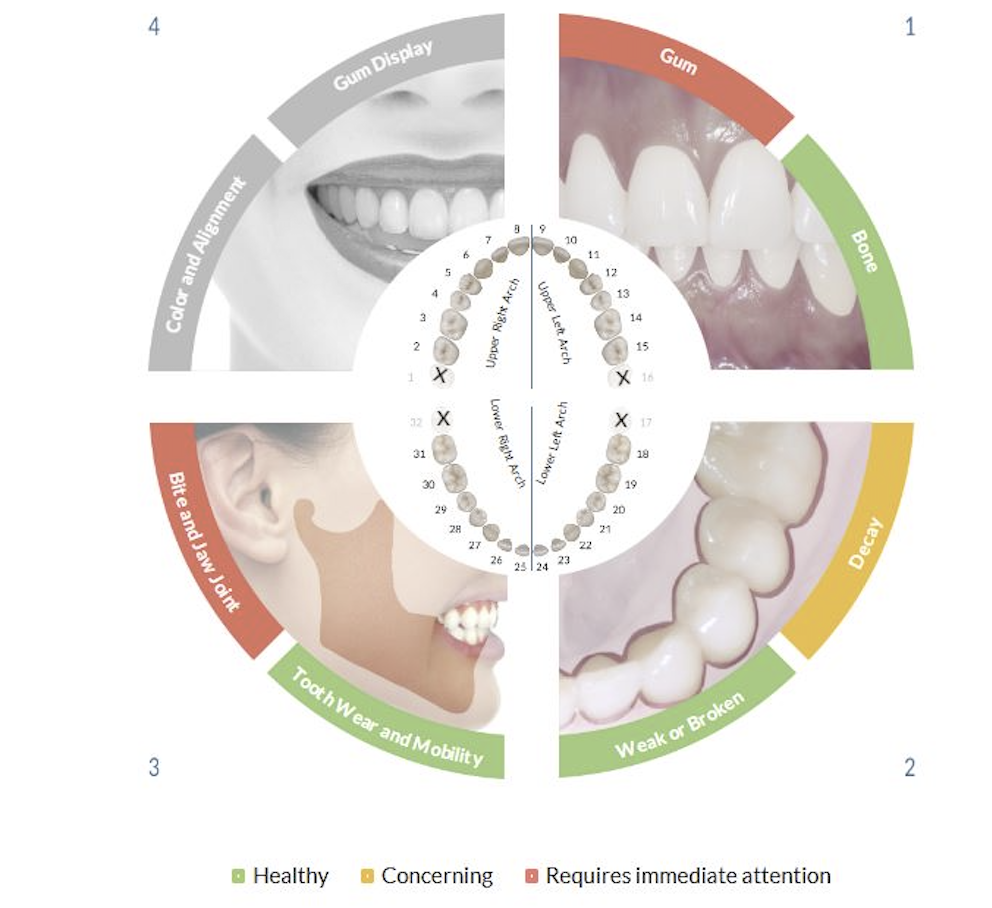
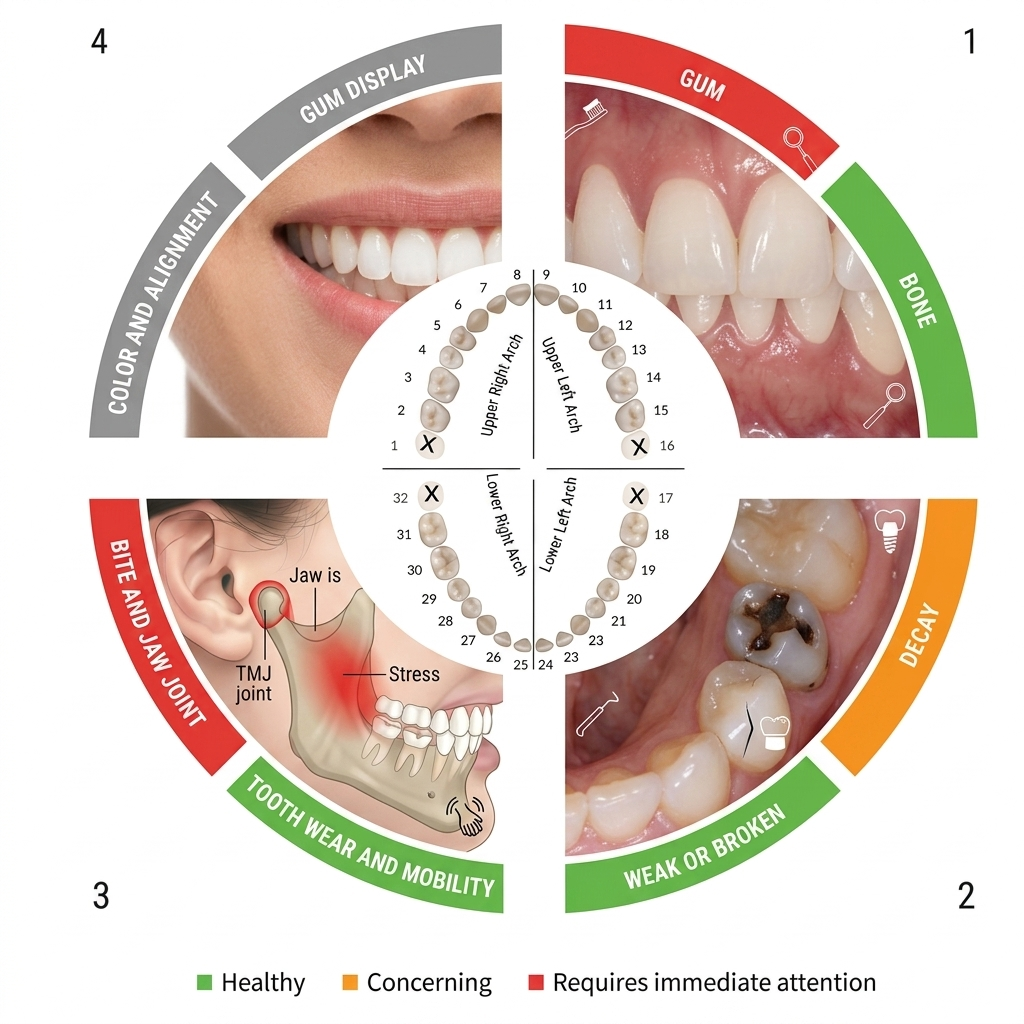
feat: implement ShowcasePage to display treatment before-and-after comparisons with visual report graphics

diff --git a/src/pages/patient-reports/ShowcasePage.jsx b/src/pages/patient-reports/ShowcasePage.jsx
@@ -28,29 +28,29 @@ const ShowcasePage = () => {
 
   // Mock data - replace with actual API calls
   const mockTreatments = [
-    { 
-      id: 1, 
-      title: 'Teeth Whitening', 
-      date: '2024-01-15', 
+    {
+      id: 1,
+      title: 'Teeth Whitening',
+      date: '2024-01-15',
       beforeImage: '/Damaged_teeth.png',
       afterImage: '/white_teeth.png',
-      description: 'Professional whitening treatment - 3 shades lighter' 
+      description: 'Professional whitening treatment - 3 shades lighter'
     },
-    { 
-      id: 2, 
-      title: 'Composite Filling', 
-      date: '2024-01-10', 
+    {
+      id: 2,
+      title: 'Composite Filling',
+      date: '2024-01-10',
       beforeImage: '/cavity_teeth.png',
       afterImage: '/repaired_teeth.png',
-      description: 'Tooth-colored restoration on molar' 
+      description: 'Tooth-colored restoration on molar'
     },
-    { 
-      id: 3, 
-      title: 'Dental Crown', 
-      date: '2023-12-20', 
+    {
+      id: 3,
+      title: 'Dental Crown',
+      date: '2023-12-20',
       beforeImage: '/before_treatment.png',
       afterImage: '/repaired_teeth.png',
-      description: 'Porcelain crown on premolar' 
+      description: 'Porcelain crown on premolar'
     },
   ];
 
@@ -70,7 +70,7 @@ const ShowcasePage = () => {
         gap: 2,
       }}>
         {patient ? <PatientSummaryCard patient={patient} /> : <Box />}
-        
+
         <Box sx={{ display: 'flex', alignItems: 'center', flexWrap: 'wrap', gap: 1 }}>
           {reportSections.map((section) => (
             <Button
@@ -103,16 +103,16 @@ const ShowcasePage = () => {
       {/* Main Content Area */}
       <Box sx={{ pb: 4 }}>
         {/* Unified Card Layout */}
-        <Box sx={{ 
-          backgroundColor: COLORS.SURFACE_CARD, 
-          borderRadius: radius.xl, 
-          border: `1px solid ${COLORS.BORDER}`, 
-          p: 3 
+        <Box sx={{
+          backgroundColor: COLORS.SURFACE_CARD,
+          borderRadius: radius.xl,
+          border: `1px solid ${COLORS.BORDER}`,
+          p: 3
         }}>
           <Box sx={{ mb: 3, textAlign: 'center' }}>
-            <Typography 
-              sx={{ 
-                fontWeight: 600, 
+            <Typography
+              sx={{
+                fontWeight: 600,
                 fontSize: '0.90rem',
                 color: COLORS.PRIMARY
               }}
@@ -122,77 +122,79 @@ const ShowcasePage = () => {
           </Box>
 
           <Box sx={{ display: 'flex', gap: 3 }}>
-          {/* Left Side - Visual */}
-          <Box sx={{ flex: '0 0 calc(50% - 12px)', maxWidth: 'calc(50% - 12px)' }}>
-            <img 
-              src="/report_visual.png" 
-              alt="Treatment Showcase Visualization"
-              style={{ width: '100%', height: 'auto', display: 'block' }}
-            />
-          </Box>
+            {/* Left Side - Visual */}
+            <Box sx={{ flex: '0 0 calc(50% - 12px)', maxWidth: 'calc(50% - 12px)' }}>
+              <img
+                src="/report_visual.png"
+                alt="Treatment Showcase Visualization"
+                style={{ maxWidth: '100%', height: 'auto', display: 'block', margin: '0 auto', objectFit: 'contain' }}
+              />
+            </Box>
 
-          {/* Vertical Divider */}
-          <Box sx={{ 
-            width: '1px', 
-            bgcolor: '#bdbdbd',
-            minHeight: '400px',
-            flexShrink: 0
-          }} />
+            {/* Vertical Divider */}
+            <Box sx={{
+              width: '1px',
+              bgcolor: '#bdbdbd',
+              minHeight: '400px',
+              flexShrink: 0
+            }} />
 
-          {/* Right Side - Content */}
-          <Box sx={{ flex: '1 1 calc(50% - 12px)', minWidth: 0 }}>
-            <Box>
-              {mockTreatments.map((treatment) => (
-              <SectionCard 
-                key={treatment.id} 
-                title={treatment.title}
-                subtitle={`Completed: ${treatment.date}`}
-                icon={ShowcaseIcon}
-              >
-                <Typography sx={{ ...bodySx, color: COLORS.TEXT_SECONDARY, mb: 2 }}>
-                  {treatment.description}
-                </Typography>
-                <Grid container spacing={2}>
-                  <Grid size={{ xs: 6 }}>
-                    <Typography sx={{ ...captionSx, fontWeight: 600, color: COLORS.TEXT_PRIMARY, mb: 1, textAlign: 'center', textTransform: 'uppercase' }}>
-                      Before
+            {/* Right Side - Content */}
+            <Box sx={{ flex: '1 1 calc(50% - 12px)', minWidth: 0 }}>
+              <Box>
+                {mockTreatments.map((treatment) => (
+                  <SectionCard
+                    key={treatment.id}
+                    title={treatment.title}
+                    subtitle={`Completed: ${treatment.date}`}
+                    icon={ShowcaseIcon}
+                    collapsible
+                    defaultExpanded={false}
+                  >
+                    <Typography sx={{ ...bodySx, color: COLORS.TEXT_SECONDARY, mb: 2 }}>
+                      {treatment.description}
                     </Typography>
-                    <Box 
-                      component="img"
-                      src={treatment.beforeImage}
-                      alt={`Before ${treatment.title}`}
-                      sx={{ 
-                        width: '100%',
-                        height: 200,
-                        objectFit: 'cover',
-                        borderRadius: radius.md,
-                        border: `1px solid ${COLORS.BORDER}`
-                      }}
-                    />
-                  </Grid>
-                  <Grid size={{ xs: 6 }}>
-                    <Typography sx={{ ...captionSx, fontWeight: 600, color: COLORS.TEXT_PRIMARY, mb: 1, textAlign: 'center', textTransform: 'uppercase' }}>
-                      After
-                    </Typography>
-                    <Box 
-                      component="img"
-                      src={treatment.afterImage}
-                      alt={`After ${treatment.title}`}
-                      sx={{ 
-                        width: '100%',
-                        height: 200,
-                        objectFit: 'cover',
-                        borderRadius: radius.md,
-                        border: `1px solid ${COLORS.BORDER}`
-                      }}
-                    />
-                  </Grid>
-                </Grid>
-              </SectionCard>
-            ))}
+                    <Grid container spacing={2}>
+                      <Grid size={{ xs: 6 }}>
+                        <Typography sx={{ ...captionSx, fontWeight: 600, color: COLORS.TEXT_PRIMARY, mb: 1, textAlign: 'center', textTransform: 'uppercase' }}>
+                          Before
+                        </Typography>
+                        <Box
+                          component="img"
+                          src={treatment.beforeImage}
+                          alt={`Before ${treatment.title}`}
+                          sx={{
+                            width: '100%',
+                            height: 200,
+                            objectFit: 'cover',
+                            borderRadius: radius.md,
+                            border: `1px solid ${COLORS.BORDER}`
+                          }}
+                        />
+                      </Grid>
+                      <Grid size={{ xs: 6 }}>
+                        <Typography sx={{ ...captionSx, fontWeight: 600, color: COLORS.TEXT_PRIMARY, mb: 1, textAlign: 'center', textTransform: 'uppercase' }}>
+                          After
+                        </Typography>
+                        <Box
+                          component="img"
+                          src={treatment.afterImage}
+                          alt={`After ${treatment.title}`}
+                          sx={{
+                            width: '100%',
+                            height: 200,
+                            objectFit: 'cover',
+                            borderRadius: radius.md,
+                            border: `1px solid ${COLORS.BORDER}`
+                          }}
+                        />
+                      </Grid>
+                    </Grid>
+                  </SectionCard>
+                ))}
+              </Box>
             </Box>
           </Box>
-        </Box>
         </Box>
       </Box>
     </Box>
